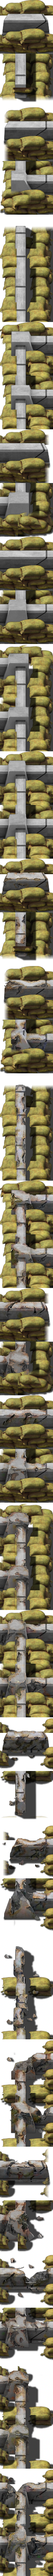
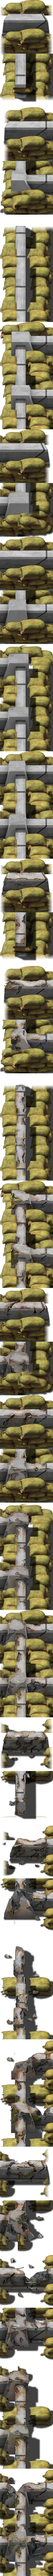
GDI Fortified Wall: Firestorm wire-glow via in-texture color pulse + solo-tile fade fix
Firestorm wire-glow: abandoned the overlay-sprite approach (repeated
additive-blend/scale failures across three attempts) in favor of directly
baking a 5-phase color pulse into the wall's own cyclone-fence pixels
(light blue -> near white -> fading back), leaving brick/sandbags
untouched. Reuses the existing AotWithWallPulseBody infrastructure
already proven by the NOD laser fence, so no new C# code was needed.
New aot-wall-gdi-fs-pulse.png (240 frames: 16 masks x 5 phases x 3 damage
tiers), wired as a third body variant active only while aot-fs-matrix is
set. Old fs-wire-v/h overlay sequences and assets removed.

Solo-segment fix: isolated single wall tiles (both plain and firestorm
variant) now fade their sandbag edges left/right like dead-end pieces
already did, instead of a hard cutoff.

diff --git a/mods/management/asset wip/walls/merged/bake-fs-wire-pulse.py b/mods/management/asset wip/walls/merged/bake-fs-wire-pulse.py
@@ -1,0 +1,78 @@
+"""
+Baut die pulsierende Firestorm-Zaun-Krone DIREKT in die aot-wall-gdi-fs
+Textur ein (kein separates Overlay-Sprite mehr -- das verursachte die
+Additive-Blend/Scale-Probleme der vorherigen Versuche).
+
+Technik: Fuer jeden der 16 Verbindungszustaende wird dieselbe Layer-
+Komposition wie im normalen FS-Bake verwendet (Brick+Sandsack unveraendert),
+aber die Zaun-Layer (fence_back/fence_front aus fence_parts()) werden pro
+Frame Richtung Hellblau/Weiss eingefaerbt -- 5 Phasen, aufsteigend bis fast
+weiss und wieder abfallend ("Pulse"). Frame-Index = Maske + 16*Phase, wie
+beim bereits funktionierenden AotWithWallPulseBody (NOD-Laserzaun-System).
+"""
+import importlib.util, sys
+from PIL import Image, PngImagePlugin
+import numpy as np
+
+SCRATCH = "/private/tmp/claude-501/-Users-moritzgiuliani-Documents-openRA-Projekte/b69a688a-de17-4f40-9dba-d553da3ca5dd/scratchpad"
+spec = importlib.util.spec_from_file_location("cw", f"{SCRATCH}/canonical_walls3.py")
+cw = importlib.util.module_from_spec(spec)
+sys.modules["cw"] = cw
+spec.loader.exec_module(cw)
+
+TILE = cw.TILE
+BITS_DIR = "/Users/moritzgiuliani/Documents/openRA Projekte/TiberianDawnHD/mods/cnc/bits"
+
+LIGHT_BLUE = np.array([140, 200, 255], dtype=np.float32)
+WHITE = np.array([245, 250, 255], dtype=np.float32)
+PULSE = [0.25, 0.6, 0.95, 0.55, 0.25]  # 5 Phasen: aufsteigend bis fast weiss, wieder abfallend
+
+
+def recolor(img, t):
+    """Faerbt NUR die sichtbaren (alpha>0) Pixel des Zaun-Layers Richtung
+    Hellblau->Weiss ein, Alpha unveraendert. t=0 => unveraendert."""
+    arr = np.array(img, dtype=np.float32)
+    rgb = arr[..., :3]
+    a = arr[..., 3:4]
+    glow_color = LIGHT_BLUE + (WHITE - LIGHT_BLUE) * t
+    blended = rgb * (1 - t) + glow_color * t
+    out = np.concatenate([blended, a], axis=-1)
+    return Image.fromarray(np.clip(out, 0, 255).astype("uint8"), "RGBA")
+
+
+def build_tile_pulsed(bits, t):
+    back, front = cw.build_layers(bits)
+    fence_back, fence_front = cw.fence_parts(bits)
+    out = Image.new("RGBA", (TILE, TILE), (0, 0, 0, 0))
+    for img, pos in back:
+        out.alpha_composite(img, pos)
+    if fence_back is not None:
+        out.alpha_composite(recolor(fence_back, t), (0, 0))
+    out.alpha_composite(cw.brik(bits))
+    for img, pos in front:
+        out.alpha_composite(img, pos)
+    if fence_front is not None:
+        out.alpha_composite(recolor(fence_front[0], t), fence_front[1])
+    return out
+
+
+def save_sheet(frames, path):
+    out = Image.new("RGBA", (TILE, TILE * len(frames)), (0, 0, 0, 0))
+    for i, f in enumerate(frames):
+        out.alpha_composite(f, (0, i * TILE))
+    meta = PngImagePlugin.PngInfo()
+    meta.add_text("FrameSize", f"{TILE},{TILE}")
+    meta.add_text("FrameAmount", str(len(frames)))
+    out.save(path, pnginfo=meta)
+    print("baked", path, len(frames), "frames")
+
+
+frames = []
+for offs in [(0, 0, 0), (16, 0, 0), (32, 16, 16)]:  # idle / scratched / damaged
+    cw.BRIK_OFF, cw.SBAG_OFF, cw.CYCL_OFF = offs
+    for t in PULSE:
+        for bits in range(16):
+            frames.append(build_tile_pulsed(bits, t))
+cw.BRIK_OFF = cw.SBAG_OFF = cw.CYCL_OFF = 0
+save_sheet(frames, f"{BITS_DIR}/aot-wall-gdi-fs-pulse.png")
+print("done", len(frames), "total frames")

diff --git a/mods/management/asset wip/walls/merged/bake-merged-wall.py b/mods/management/asset wip/walls/merged/bake-merged-wall.py
@@ -193,8 +193,13 @@ def build_layers(bits):
     # verbundenen Stuecken. Bits==0 nutzt daher direkt die vollen
     # Nord-/Sued-Streifen wie ein gerader Durchgang (Abschnitt 3).
     if bits == 0:
-        back.append((STRIP_T, (0, 0)))
-        front.append((STRIP_B, (0, SB_Y)))
+        # Isoliert (kein Nachbar auf keiner Seite) -> an BEIDEN Enden ausfaden,
+        # analog zum Stummel-Fall (nur eine Verbindung), der die offene Seite
+        # bereits feathert. Sonst wirken die Sandsack-Kanten hart abgeschnitten.
+        strip_t_faded = feather(feather(STRIP_T, "left"), "right")
+        strip_b_faded = feather(feather(STRIP_B, "left"), "right")
+        back.append((strip_t_faded, (0, 0)))
+        front.append((strip_b_faded, (0, SB_Y)))
     elif not junction and bits not in (N | S, E | W):
         base = sbag(bits)
         base_n = base.crop((0, 0, TILE, HB_Y))
